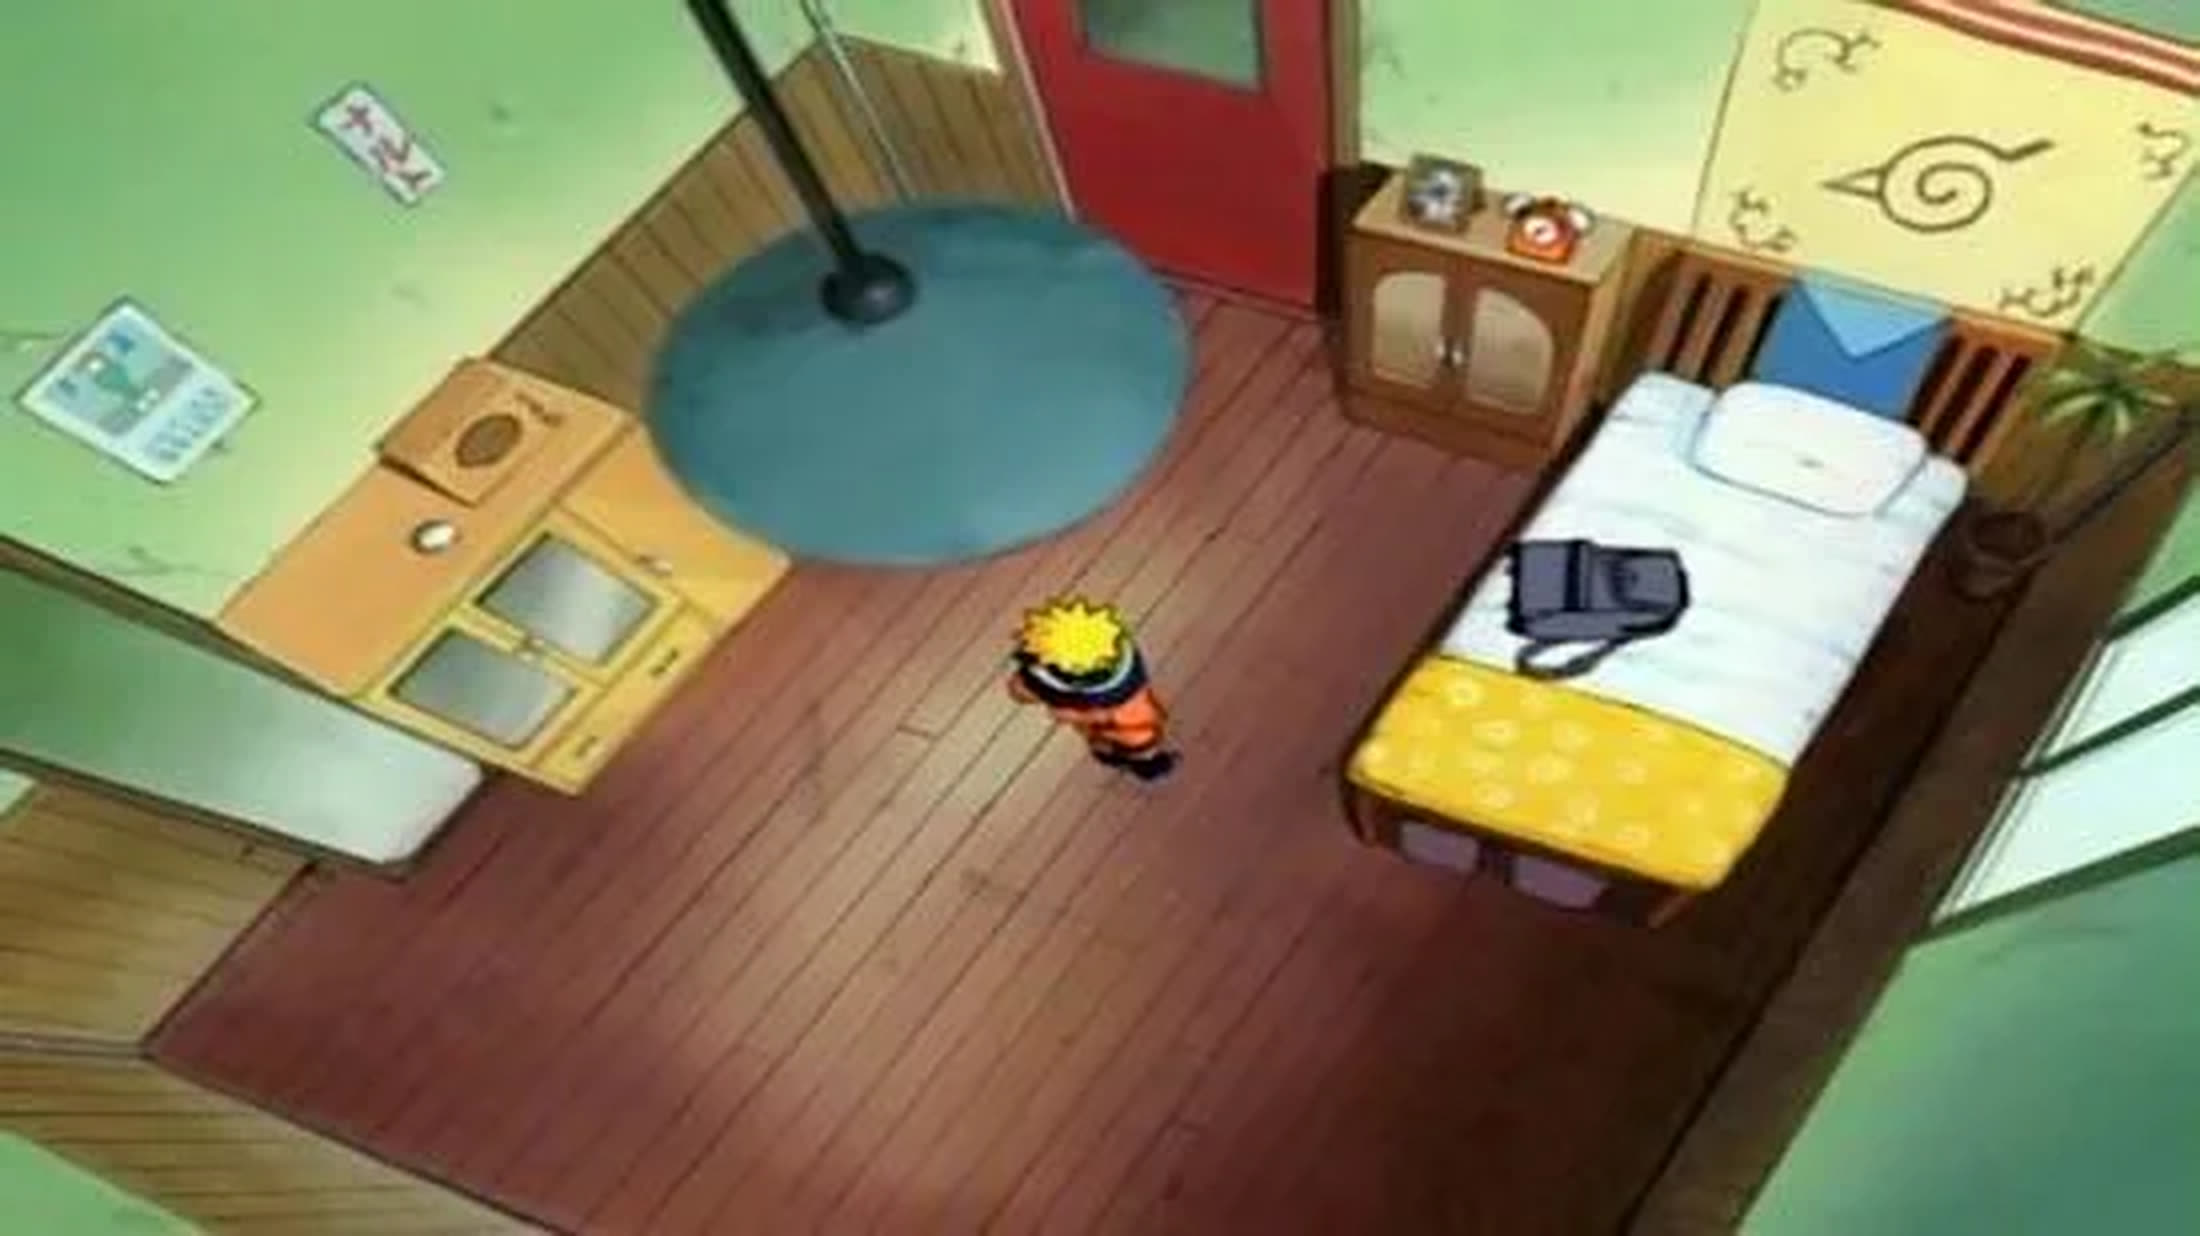
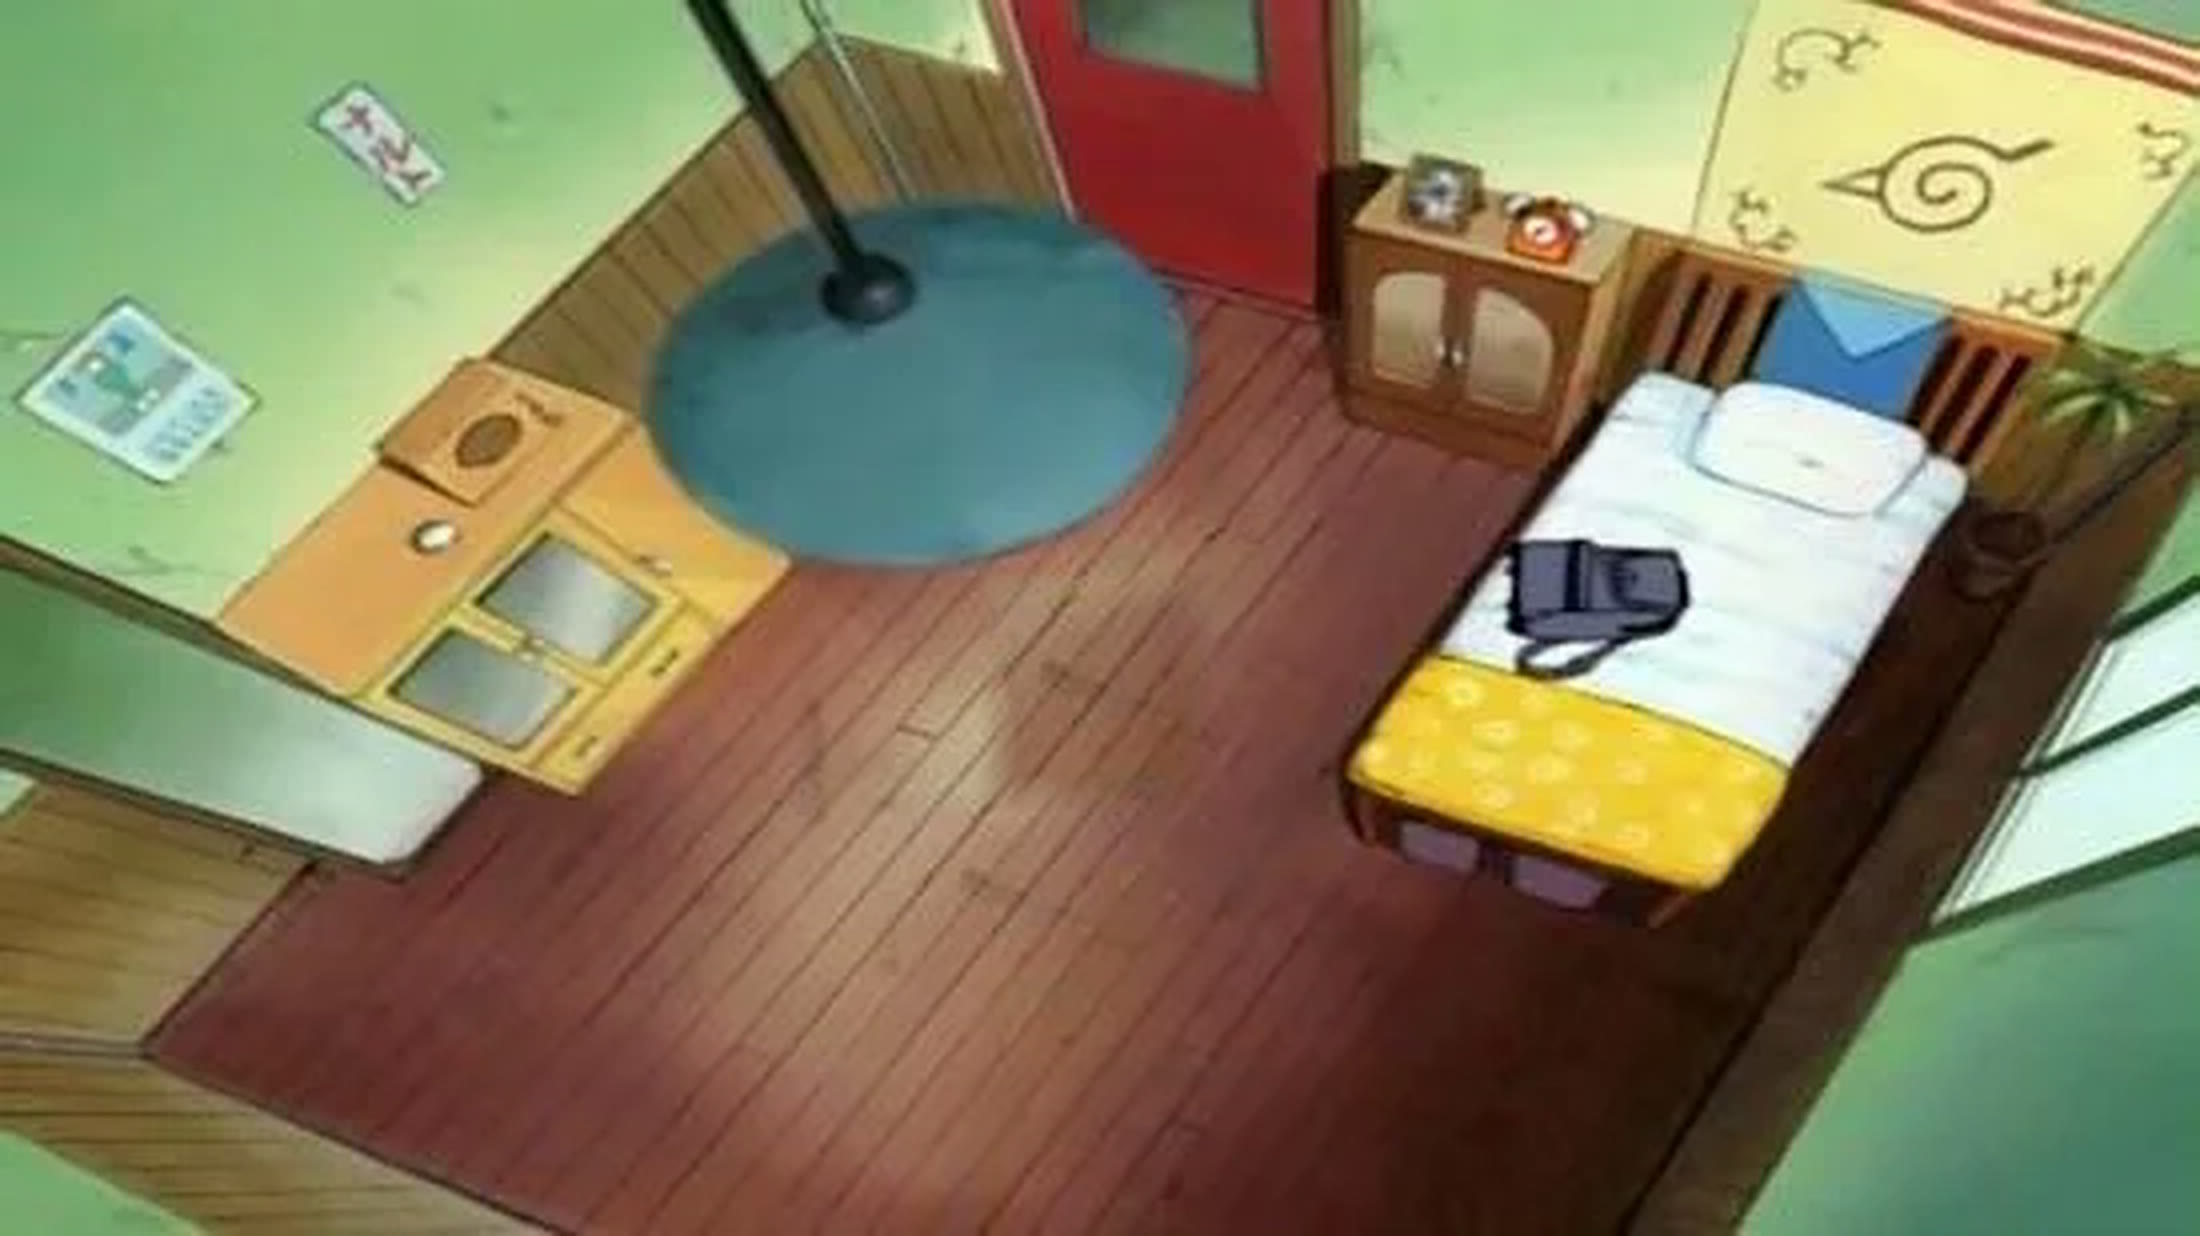
Clean Naruto out of the room art and sharpen it; stats hotspot opens the under-construction popup; woodblock variants for taps and back
Claude-Session: https://claude.ai/code/session_0169dnsoZGex3QYUphBx3375

Changed region(s): [[0.4327, 0.4612, 0.5564, 0.6456]]

diff --git a/js/menu.js b/js/menu.js
@@ -75,6 +75,7 @@
     document.querySelector(".uc-back").focus();
   }
   function closeUC() {
+    if (!uc.hidden && !document.getElementById("residence").hidden) { uc.hidden = true; return; } // stats popup inside the room: back to the room
     uc.hidden = true; window.Residence.close(); document.body.classList.remove("modal"); window.setMusicArea("village");
     if (location.hash) history.replaceState(null, "", location.pathname);
     if (current) current.focus();
@@ -87,8 +88,17 @@
   });
   go.addEventListener("pointerdown", function () { sfx("sfx-select", 0.8); });
   go.addEventListener("click", function (e) { e.preventDefault(); if (current) { history.replaceState(null, "", current.getAttribute("href")); openUC(current); } });
-  document.querySelector(".uc-back").addEventListener("click", function (e) { e.preventDefault(); sfx("sfx-select", 0.8); closeUC(); });
-  document.querySelector(".res-back").addEventListener("click", function (e) { e.preventDefault(); sfx("sfx-select", 0.8); closeUC(); });
+  document.querySelector(".uc-back").addEventListener("click", function (e) { e.preventDefault(); sfx("sfx-back", 0.6); closeUC(); });
+  document.querySelector(".res-back").addEventListener("click", function (e) { e.preventDefault(); sfx("sfx-back", 0.6); closeUC(); });
+  // every other button gets a woodblock tap; submenu entries (menu, Enter, hotspots) play the jutsu sound themselves
+  document.addEventListener("click", function (e) {
+    var b = e.target.closest("button, a.go");
+    if (!b || b.closest(".menu") || b === go || b.classList.contains("hotspot") || b.classList.contains("uc-back") || b.classList.contains("res-back") || b.closest(".player")) return;
+    if (b.type === "submit" && b.closest("#profile-form")) return;
+    sfx("sfx-tap", 0.45);
+  });
+  document.querySelector(".player").addEventListener("click", function (e) { if (e.target.closest("button")) sfx("sfx-tap", 0.3); });
+  window.openUnderConstruction = function (label) { ucWhere.textContent = label; uc.hidden = false; document.body.classList.add("modal"); document.querySelector(".uc-back").focus(); };
   document.addEventListener("keydown", function (e) { if (e.key === "Escape" && (!uc.hidden || !document.getElementById("residence").hidden)) closeUC(); });
   uc.addEventListener("click", function (e) { if (e.target === uc) closeUC(); });
   // keyboard: arrows cycle, Enter follows the active link
@@ -326,10 +336,9 @@
   });
   document.getElementById("profile-cancel").addEventListener("click", closeLogin);
   document.getElementById("profile-signout").addEventListener("click", function () {
-    sfx("sfx-hover", 0.5);
     S.signOut().then(function () { showWho(null); showAuth(); });
   });
-  who.addEventListener("click", function () { sfx("sfx-hover", 0.5); showProfile(true); });
+  who.addEventListener("click", function () { showProfile(true); });
 
   // react to auth / profile changes (sign-in from step 1 moves to step 2 or straight in)
   S.onChange(function () {

diff --git a/js/residence.js b/js/residence.js
@@ -28,7 +28,13 @@
     if (f) f.focus();
   }
   function closePanel() { wrap.hidden = true; }
-  res.querySelectorAll(".hotspot").forEach(function (b) { b.addEventListener("click", function () { openPanel(b.dataset.panel); }); });
+  res.querySelectorAll(".hotspot").forEach(function (b) {
+    b.addEventListener("click", function () {
+      var a = document.getElementById("sfx-select").cloneNode(); a.volume = 0.8 * (document.getElementById("audio").muted ? 0 : document.getElementById("audio").volume); a.play().catch(function () {});
+      if (b.dataset.panel === "stats") { window.openUnderConstruction("Stats"); return; }
+      openPanel(b.dataset.panel);
+    });
+  });
   wrap.querySelectorAll(".panel-x").forEach(function (b) { b.addEventListener("click", closePanel); });
   wrap.addEventListener("click", function (e) { if (e.target === wrap) closePanel(); });
   document.addEventListener("keydown", function (e) { if (e.key === "Escape" && !wrap.hidden) { e.stopPropagation(); closePanel(); } }, true);

diff --git a/index.html b/index.html
@@ -227,6 +227,8 @@
     <audio id="audio" preload="metadata"></audio>
     <audio id="sfx-hover" src="assets/sfx/hover.mp3" preload="auto"></audio>
     <audio id="sfx-select" src="assets/sfx/select.mp3" preload="auto"></audio>
+    <audio id="sfx-tap" src="assets/sfx/tap.mp3" preload="auto"></audio>
+    <audio id="sfx-back" src="assets/sfx/back.mp3" preload="auto"></audio>
   </footer>
 
   <script src="js/firebase-config.js"></script>
